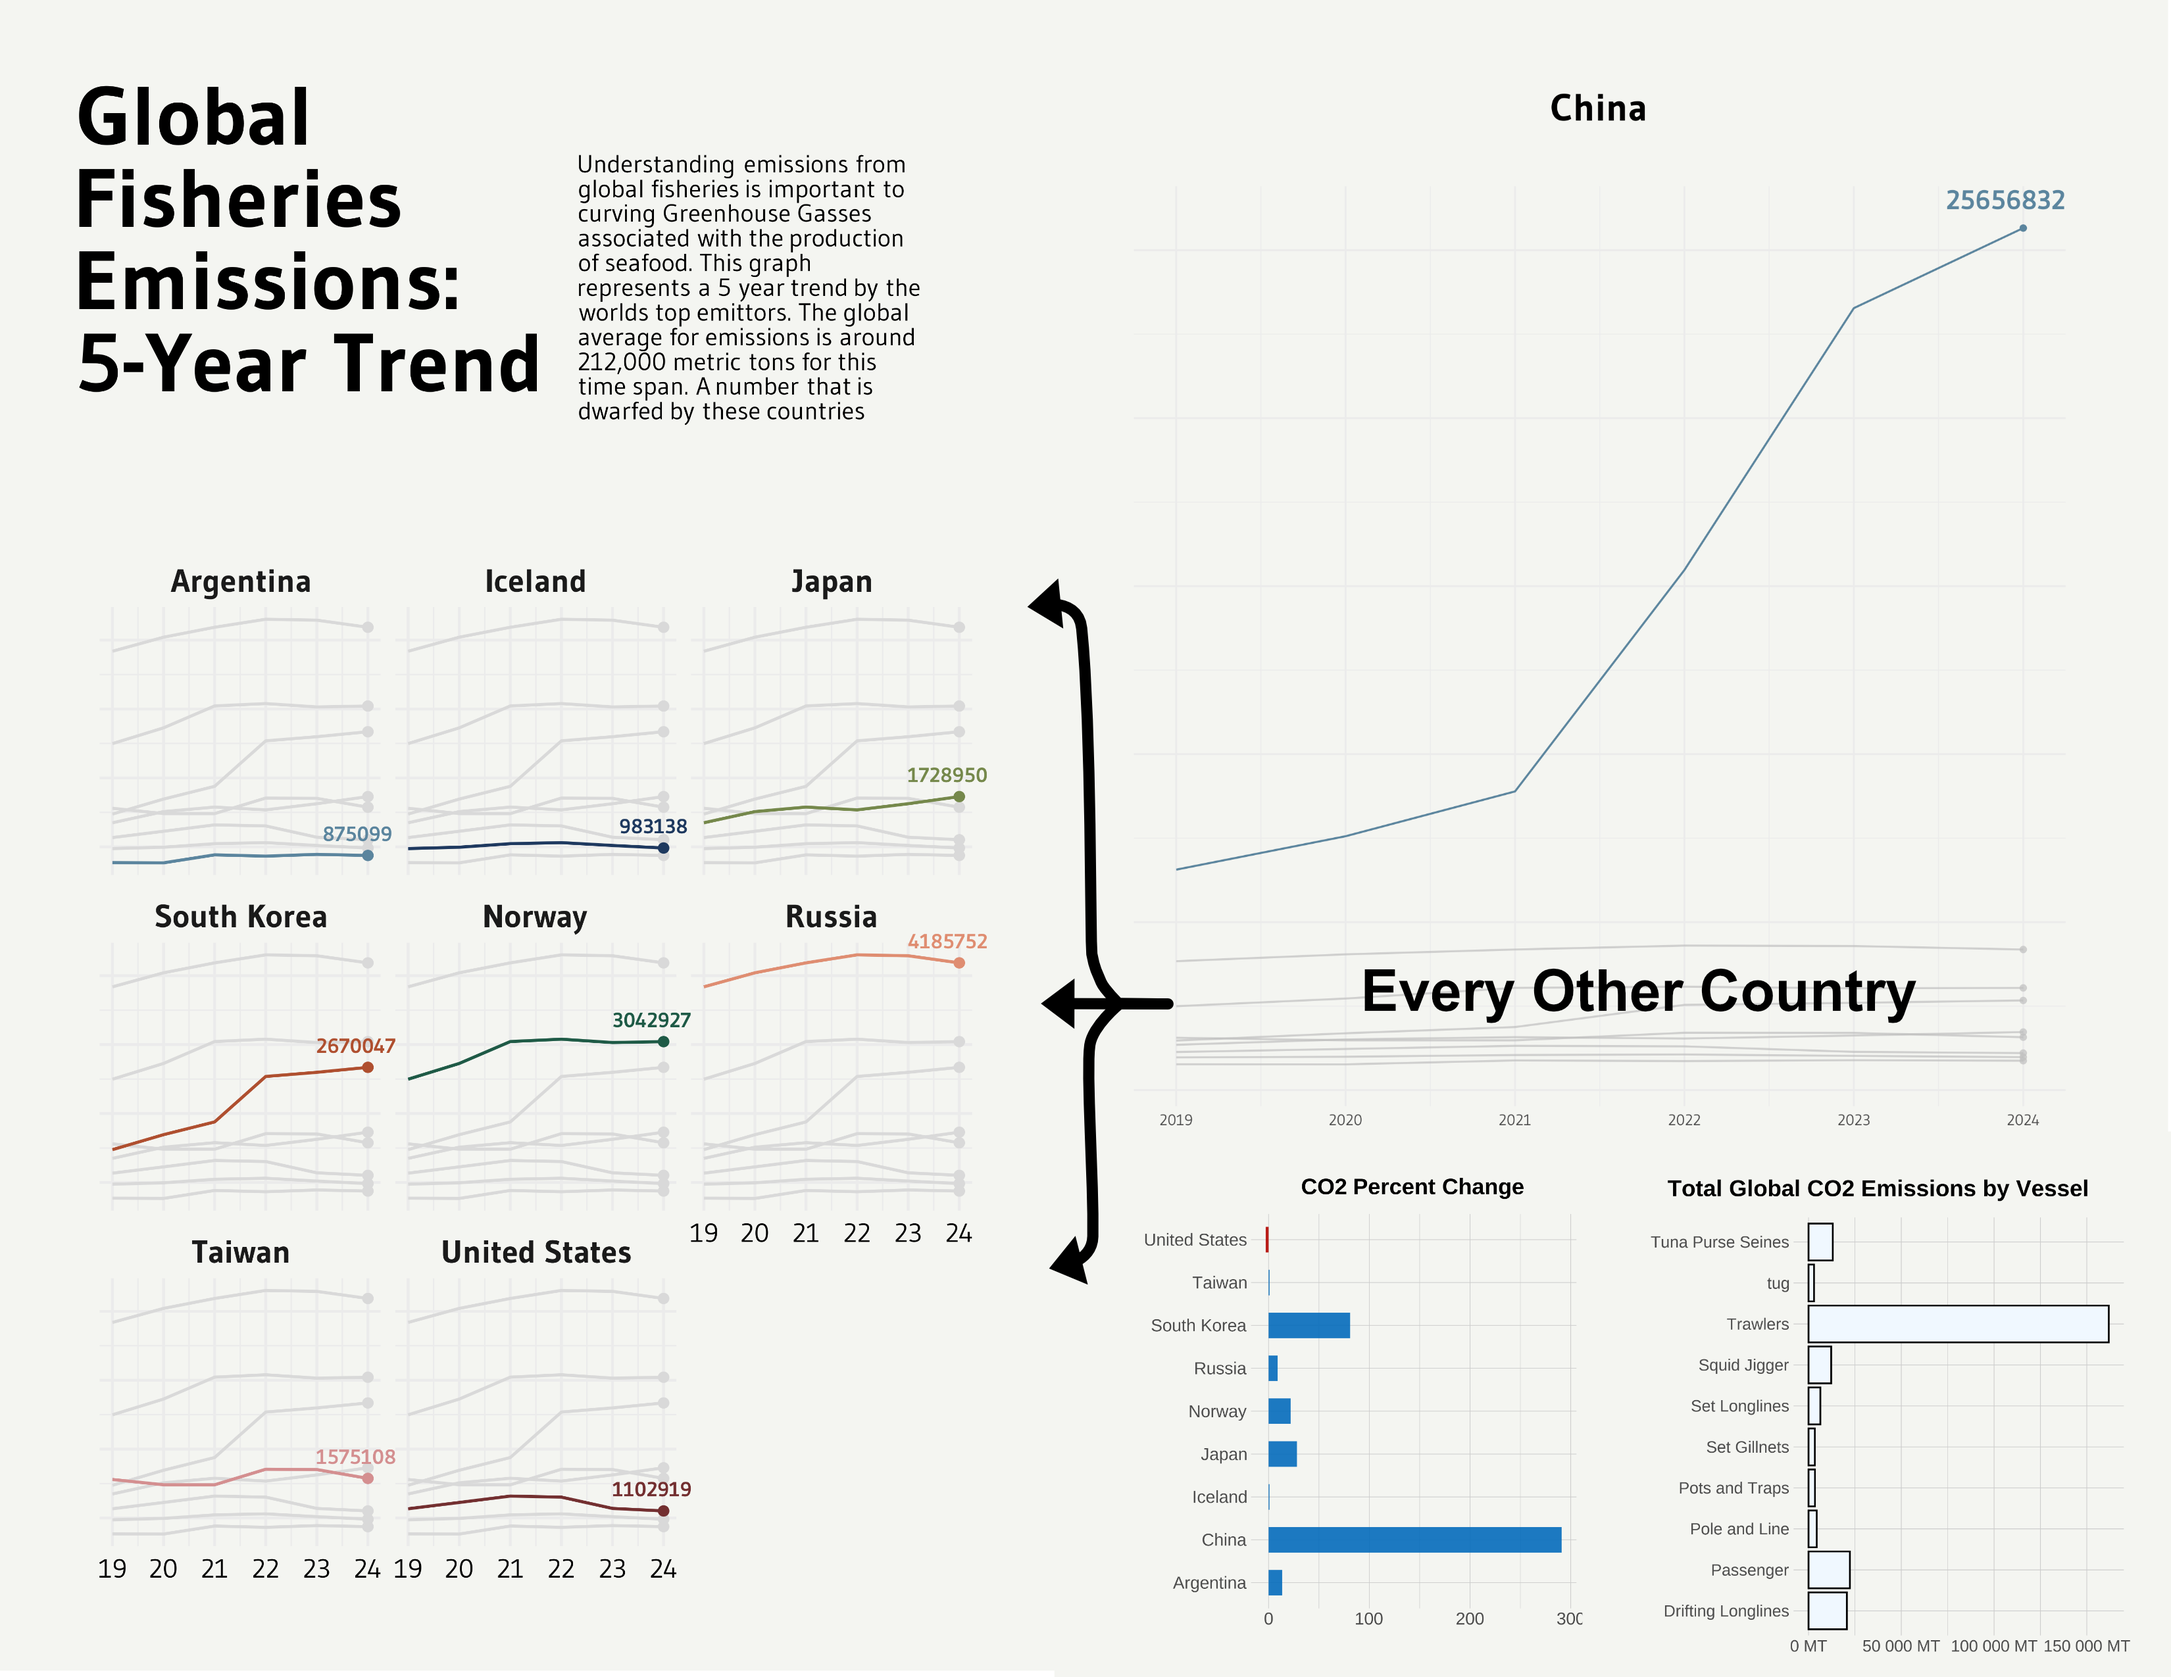
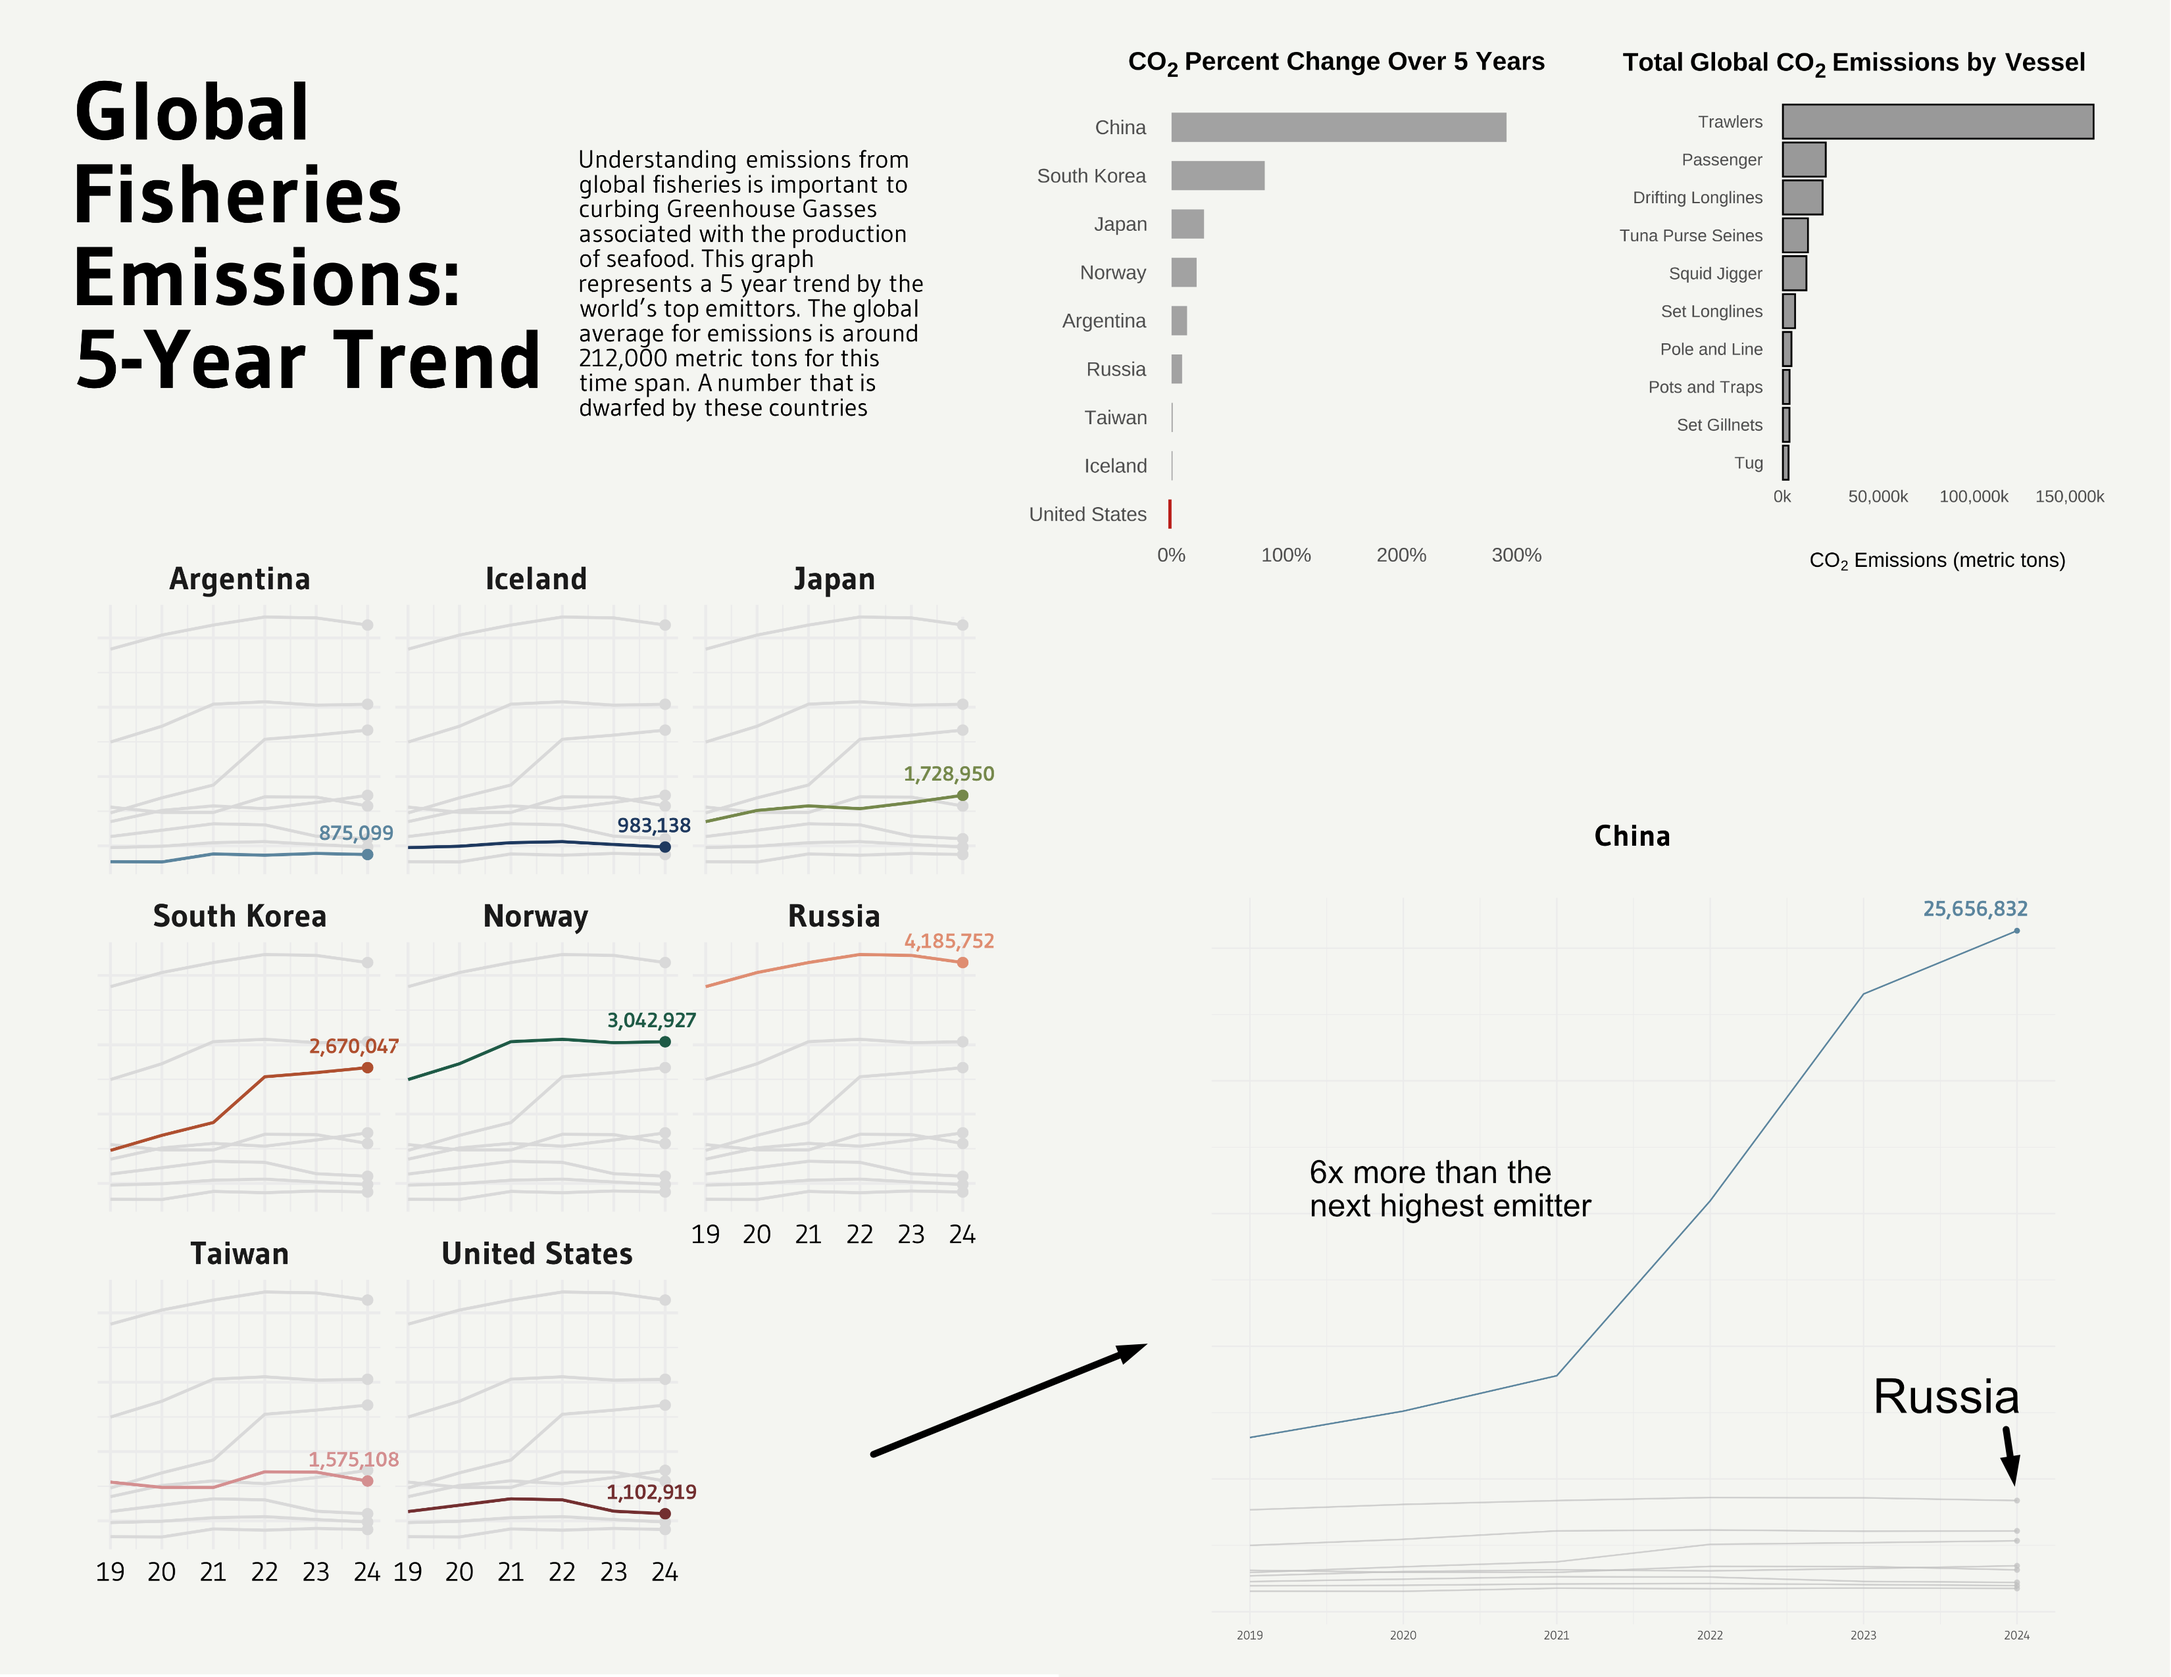
final

diff --git a/docs/blog_posts/2025-03-09-Global-Fishing/global_fisheries.html b/docs/blog_posts/2025-03-09-Global-Fishing/global_fisheries.html
@@ -229,11 +229,11 @@ pre > code.sourceCode > span > a:first-child::before { text-decoration: underlin
 </div>
 <section id="the-cost-of-global-fisheries" class="level3">
 <h3 class="anchored" data-anchor-id="the-cost-of-global-fisheries">The Cost of Global Fisheries</h3>
-<p>When we think about seafood, we think delicious lobster, shrimp, mussels and tuna. Our senses can be positive and negative, like thinking about how fresh it can be and how maybe not so good it can smell. Maybe we also think about the cost, we all know a really good sushi restaurant comes at a price. But what if you look a little deeper? Look past the seafood itself, and look more closely at the big, often diesel powered, machines used to catch them. The smoke, oil, air pollution, greenhouse gasses are all a byproduct of ocean fishing. This makes you quickly realize the environmental implications of such a massive operation. When you think about the shear number of vessels, quantifying this pollution seems almost impossible. However, new advancement in Automated Identification System (AIS) tracking as well as satellite data, this challenge has become more manageable.</p>
+<p>When we think about seafood, we think delicious lobster, shrimp, mussels and tuna. Our senses can be positive and negative, like thinking about how fresh it can be and how maybe not so good it can smell. Maybe we also think about the cost, we all know a really good sushi restaurant comes at a price. But what if you look a little deeper? Look past the seafood itself, and look more closely at the big, often diesel powered, machines used to catch them. The smoke, oil, air pollution, greenhouse gasses are all a byproduct of ocean fishing. This makes you quickly realize the environmental implications of such a massive operation. When you think about the shear number of vessels, quantifying this pollution seems almost impossible. However, with new advancement in Automated Identification System (AIS) tracking and satellite data, this challenge has become more manageable.</p>
 </section>
 <section id="the-data" class="level3">
 <h3 class="anchored" data-anchor-id="the-data">The Data</h3>
-<p>The new dataset has been provided by emLab and Global Fishing Watch. This new data set has geographical locations for every single AIS fishing vessel in the world as well as vessels that are known as the dark fleet, meaning they do not have AIS and do not broadcast a location. With this dataset not only can we can get an idea of the total CO2 pollution associated with global fisheries, but we can also see which countries standout as the biggest contributors. These are important first steps if we want to curve emissions associated with seafood production.</p>
+<p>The novel dataset has been provided by emLab and Global Fishing Watch. This new data set has geographical locations for every single AIS fishing vessel in the world as well as vessels that are known as the dark fleet, meaning they do not have AIS and do not broadcast a location. With this dataset not only can we can get an idea of the total CO2 pollution associated with global fisheries, but we can also see which countries standout as the biggest contributors. These are important first steps if we want to curb emissions associated with seafood production.</p>
 </section>
 <section id="the-goalsquestions-to-address" class="level3">
 <h3 class="anchored" data-anchor-id="the-goalsquestions-to-address">The Goals/Questions to Address</h3>
@@ -247,7 +247,7 @@ pre > code.sourceCode > span > a:first-child::before { text-decoration: underlin
 </section>
 <section id="the-viz" class="level3">
 <h3 class="anchored" data-anchor-id="the-viz">The Viz</h3>
-<p><img src="final_infographic.png" class="img-fluid"></p>
+<p><img src="final_infographic.png" class="img-fluid" alt="Global fishing emissions trends over 5 years. The infographic shows CO2 pollution trends for the top 9 countries from 2019 to 2024 and the percent change in CO2 emissions as well as the vessels reponsible for the most emissions in that time frame"></p>
 </section>
 <section id="the-approach-aka-how-did-i-come-to-this-design" class="level3">
 <h3 class="anchored" data-anchor-id="the-approach-aka-how-did-i-come-to-this-design">The Approach, AKA How did I come to this design?</h3>
@@ -257,12 +257,12 @@ When you look at this viz for the first time your eyes are immediately drawn to 
 </ul>
 <section id="typography-general-design-context-and-message" class="level4">
 <h4 class="anchored" data-anchor-id="typography-general-design-context-and-message"><strong>Typography, General Design, Context and Message</strong></h4>
-<p>The typography I wanted to keep simple. Text is bold where needed to tell the user, <strong>“Hey, there is some important context here!”</strong>. For example, it was important that In showed just how much more China fishing industry is contributing when compared to the top 10 polluters. I used some bold text within the graph to draw attention to what you are actually looking at. The general design I want to be linearly, meaning it flows well and does not require a complex path on paper. I chose to go wide instead of long because it feels more natural to how someone would read a book. Starting at the top left the reader quickly picks up on the context for the viz and its central message, which is clearly stated immediately in both the title and subtitle.</p>
+<p>The typography I wanted to keep simple. Text is bold where needed to tell the user, <strong>“Hey, there is some important context here!”</strong>. For example, it was important that I gave context to just how much more China fishing industry is contributing when compared to the top 10 polluters. I used some bold text within the graph to draw attention to what you are actually looking at. The general design I want to be linearly, meaning it flows well and does not require a complex path on paper. I chose to go wide instead of long because it feels more natural to how someone would read a book. Starting at the top left the reader quickly picks up on the context for the viz and its central message, which is clearly stated immediately in both the title and subtitle.</p>
 </section>
-<section id="dei-and-accessibilty" class="level4">
-<h4 class="anchored" data-anchor-id="dei-and-accessibilty"><strong>DEI and Accessibilty</strong></h4>
+<section id="dei-and-accessibility" class="level4">
+<h4 class="anchored" data-anchor-id="dei-and-accessibility"><strong>DEI and Accessibility</strong></h4>
 <p>I want to acknowledge that in today’s climate, DEI is more important than ever. While I think that some emissions can be related to countries who have less resources to invest in more modern equipment, my dataset does not allow me to explore that question.</p>
-<p>Accessibility was important to me when making the graphics. I utilized gghighight to make data standout for the reader. The colors matter less and act as a contrast to the background. I did create the final plot in affinity and was unsure how to add alt text to it. This is something I need to look into.</p>
+<p>Accessibility was important to me when making the graphics. I used the {gghighight} package to make data standout for the reader. The colors matter less and act as a contrast to the background. I did create the final plot in Affinity and added alt text in this quarto doc to make this information more available to everyone.</p>
 </section>
 </section>
 <section id="final-code-for-each-viz" class="level3">

diff --git a/docs/posts.html b/docs/posts.html
@@ -204,7 +204,7 @@ window.Quarto = {
 
 <div class="quarto-listing quarto-listing-container-grid" id="listing-listing">
 <div class="list grid quarto-listing-cols-3">
-<div class="g-col-1" data-index="0" data-categories="Quarto,MEDS,UCSB,EDS240" data-listing-date-sort="1741507200000" data-listing-file-modified-sort="1742250013076" data-listing-date-modified-sort="NaN" data-listing-reading-time-sort="18" data-listing-word-count-sort="3560">
+<div class="g-col-1" data-index="0" data-categories="Quarto,MEDS,UCSB,EDS240" data-listing-date-sort="1741507200000" data-listing-file-modified-sort="1742694799245" data-listing-date-modified-sort="NaN" data-listing-reading-time-sort="19" data-listing-word-count-sort="3603">
 <a href="./blog_posts/2025-03-09-Global-Fishing/global_fisheries.html" class="quarto-grid-link">
 <div class="quarto-grid-item card h-100 card-left">
 <p class="card-img-top">
